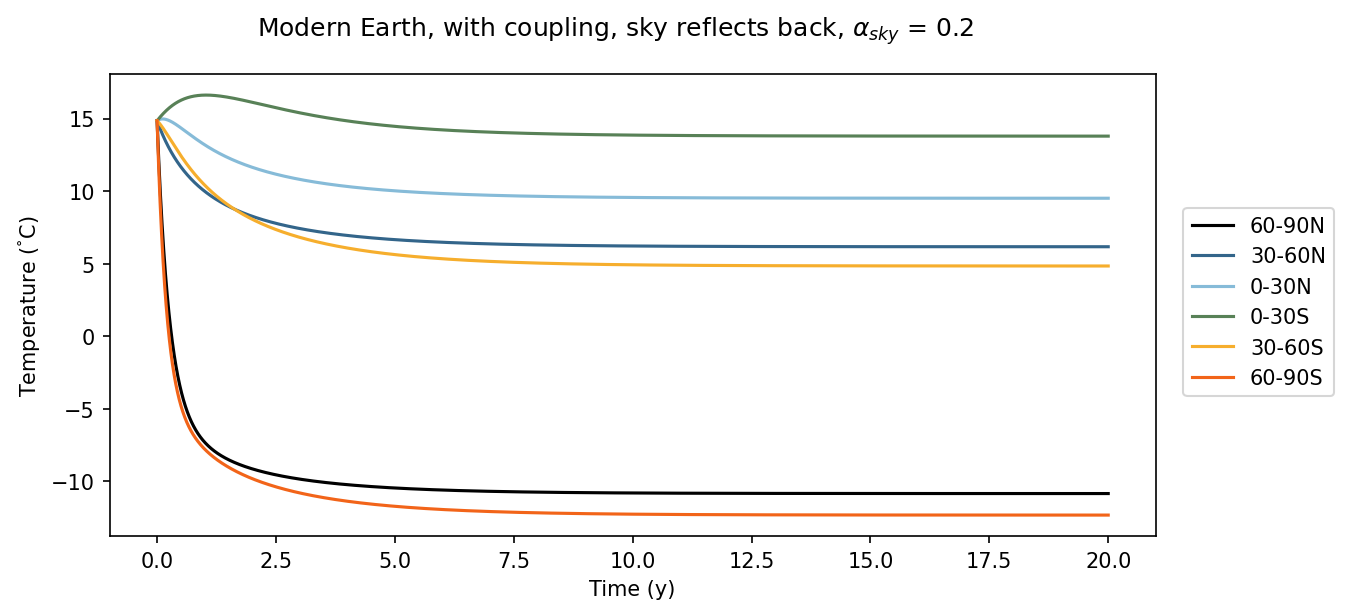
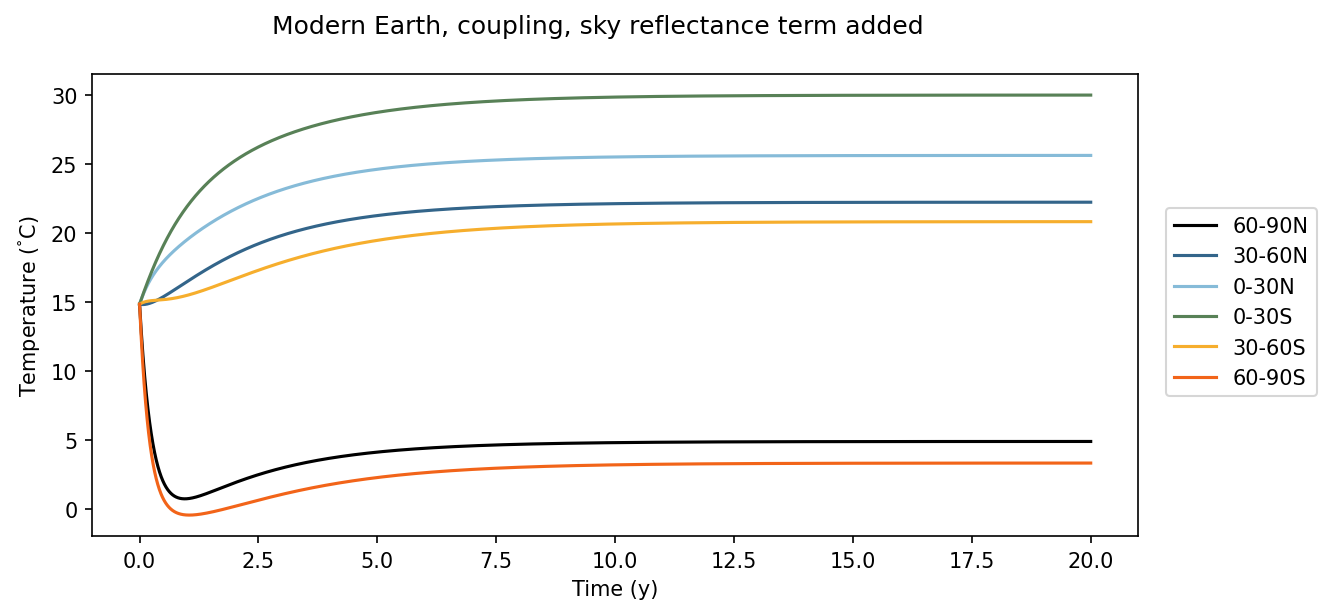
coded up volcano clouds and snowball, not working.

diff --git a/assignment_two/solvers/odes.py b/assignment_two/solvers/odes.py
@@ -1,16 +1,21 @@
-# from solvers.volcanoes import emissions
-# import numpy as np
+from solvers.volcanoes import volcanic_clouds
+from solvers.volcanoes import snowball_surface
 from data.constants import *
+# import numpy as np
 
 
 def dtemperature_dtime(time: float, temperatures: np.ndarray,
-                       volcano_model=None, compute_couplings=False, sky_reflects=False):
+                       volcano_model=None, volcano_onset = 10, volcano_duration = 2,
+                        compute_couplings=False, snowball_scenario = False):
     """
     inputs:
     t: scalar time, y'know?
-    temperature_array: zonally-averaged surface temperature (1 by 6)
-    volcano_models: reference model of volcanic forcing
+    temperatures: zonally-averaged surface temperature (1 by 6)
+    volcano_model: reference model of volcanic forcing
+    volcano_onset: start time for volcano (years)
+    volcano_duration: lenth of volcano effect (years)
     compute_couplings: choice to compute without inter-zonal heat transfer
+    snowball_scenario: choice to flip to version of model where T<0 = ice albedo
 
     returns:
     dtemperature_dtime: (1 by 6) vector of changes to temperature
@@ -48,29 +53,26 @@ def dtemperature_dtime(time: float, temperatures: np.ndarray,
     # scale couplings by zonally-averaged prefactors
     couplings = np.multiply(coupling_prefactors, couplings)
 
+
+    # # volcano-climate interaction by adding volcanic clouds to change albedo_sky
+    if volcano_model:
+        while (time >= (volcano_onset * 3.154e+7)) and (time <= ((volcano_onset + volcano_duration) * 3.154e+7)):
+            albedo_sky = volcanic_clouds(time, model=volcano_model)
+
+
+    # snowball-earth melting by changing surface albedo from ice to land/water
+    if snowball_scenario:
+        albedo_surface = snowball_surface(temperatures)
+
+
     # Update values for fluxes from new temperatures:
     # todo: time-dependent albedo_sky term will plug-in here:
     step1 = np.multiply(gamma.reshape(6), (1 - albedo_sky))
     step2 = np.multiply(step1, (1 - albedo_surface))
     flux_in = np.multiply(step2, S_0)
-    
-    # Case where the second term is altered to trap radiation reflected from surface
-    if sky_reflects:
-        step1 = np.multiply(b, temperatures ** 4)
-        flux_out = np.multiply(step1, (1 - albedo_sky)**2)
-    else: 
-        flux_out = (np.multiply(b, temperatures ** 4))*0.8
+    flux_out = (np.multiply(b, temperatures ** 4))*(1-albedo_sky) #added a term to reflect back to earth
 
     dtemperature = noncoupling_prefactors * (flux_in - flux_out) + couplings
-
-    # todo: volcano-climate addition
-    # if volcano_models:
-    #     emission_array = emissions([time], model=volcano_models)[0]
-    # else:
-    #     emission_array = 0
-
-    # add forcing fluxes to first slot: the atmosphere box
-    # dtemperature[0] += emission_array
 
     return dtemperature
 
@@ -79,8 +81,3 @@ def dtemperature_dtime(time: float, temperatures: np.ndarray,
 # time = 1.0
 # temperature0 = np.zeros((6,))
 # dtemperature_dtime(time, temperature0, compute_couplings=True)
-
-
-def albedo_sky_stepwise(time: float, t_onset=False):
-    a = ':)'
-    return a

diff --git a/assignment_two/solvers/volcanoes.py b/assignment_two/solvers/volcanoes.py
@@ -1,40 +1,44 @@
 import numpy as np
 import pandas as pd
+from data.constants import albedo_snowball, albedo_not_snowball
 
+# volcanic_clouds causes change to albedo_sky (increase) and adds trapping to flux_out
 
-# todo: model data stored in a csv
-# df = pd.read_csv("./data/model-data.csv")
-
-
-def emissions(yr, model):
+def volcanic_clouds(yr, model, onset = 10, duration = 2):
     """
-    Function defining fossil fuel emissions from various models and equations.
+    Function defining the changes produced by onset of volcanic activity
 
-    IPCC-A2 model from: http://www.grida.no/climate/ipcc/emission
-    CMIP5 model data from: https://esgf-node.llnl.gov/search/cmip5/
-    CMIP6 model data from: https://esgf-index1.ceda.ac.uk/search/cmip6/
-
-    model parameter is one of: "short_sine", "long_sine", "short_exp", "long_exp",
-        "IPCC-A2", "GFDL-ESM2G_esmrcp85", "CNRM-ESM2-1_esm-ssp585", "MPI-ESM1-2-LR_esm-ssp585", "UKESM1-0-LL_esm-ssp585"
+    model parameter is one of: "small", "medium", "large"
+    onset in years
+    duration in years
     """
     yr = np.asarray(yr)
-    if model == "short_sine": # short wavelength sine wave forcing
-        T = 0.1  
-        e = (20 / T) * (np.sin((2*np.pi*yr) / T))
-    elif model == "long_sine":
-        T = 100  
-        e = (20 / T) * (np.sin((2*np.pi*yr) / T)) # long wavelength sine wave forcing
-    elif model == "short_exp":
-        T = 0.1  
-        e = np.exp(-yr/2100) * (np.sin((2*np.pi*yr) / T))  # short wavelength exponential decay
-    elif model == "long_exp":
-        T = 100  # long wavelength
-        e = np.exp(-yr/2100) * (np.sin((2*np.pi*yr) / T))  # long wavelength exponential decay
-    else:
-        # get model data from pandas dataframe
-        t_yr = df[model + "_times"]
-        e_GtC_yr = df[model + "_emissions"]
-        # interpolate yr from model data
-        e = np.interp(yr, t_yr, e_GtC_yr)
+    if model == "small": # small amount of volcanoes, small increase in albedo
+        albedo_sky = np.array([0.2, 0.2, 0.2, 0.2, 0.2, 0.2])*1.5
 
-    return e
+    elif model == "medium":
+        albedo_sky = np.array([0.2, 0.2, 0.2, 0.2, 0.2, 0.2])*2
+        
+    elif model == "large":
+        albedo_sky = np.array([0.2, 0.2, 0.2, 0.2, 0.2, 0.2])*4
+
+    return albedo_sky
+
+def snowball_surface(temperatures: np.ndarray):
+    """
+
+    Function deciding if the surface is ice or not and defining a surface albedo 
+
+    inputs:
+    temperatures: zonally-averaged surface temperature (1 by 6)
+
+    returns:
+    albedo_surface: (1 by 6) vector of surface reflectance based off temperature
+    """
+    #loop through the 6 temperatures, if < 0 deg C, all ice, otherwise 70% water 30% land
+    temperatures = np.array([270, 270, 270, 280, 280, 280])
+    ice = (temperatures < 273.15)*albedo_snowball #  boolean of whether temps are < 0
+    not_ice = (temperatures > 273.15)*albedo_not_snowball
+    albedo_surface = ice + not_ice
+    
+    return albedo_surface

diff --git a/assignment_two/main.py b/assignment_two/main.py
@@ -2,22 +2,25 @@ import numpy as np
 from solvers.plotters import plot_integrator_results
 
 # model configuration
-title_string = r'Modern Earth, coupling, 20% surface radiation trapped' #, $\alpha _{sky}$ = 0.2'
-filename_string = "coupling_sky_traps_20_perc_15_deg"
-initial_temperatures = (15 + 273)  * np.ones((6,))  # avg temp today: 15degC
+title_string = r' Average/snowball earth, coupling'
+filename_string = "coupling_15_deg_snowball"
+initial_temperatures = (-200 + 273)  * np.ones((6,))  # avg temp today: 15degC
 coefficients = np.ones((6,))
-volcano_model = [None]  # can iterate over [None]
 solvers = ['LSODA']  # 'DOP853', cut-paste if desired
-compute_couplings = True
-sky_reflects = False
+compute_couplings = False
+snowball_scenario = False
+
+volcano_model = [None]  # can iterate over [None, 'small', 'medium', 'large']
+volcano_onset = 10 # in years after start
+volcano_duration =  2 #in years
 # todo: unequal zone selection
 
 def main():
     plot_integrator_results(title_string, filename_string,
                             args=(initial_temperatures, coefficients,
                                   compute_couplings,
-                                  volcano_model, solvers,
-                                  sky_reflects
+                                  volcano_model, volcano_onset, volcano_duration,
+                                   solvers,snowball_scenario
                                   )
                             )
     return

diff --git a/assignment_two/solvers/plotters.py b/assignment_two/solvers/plotters.py
@@ -16,7 +16,7 @@ def plot_integrator_results(title_string, filename_string, args: tuple):
     t_max = years * 3.154e+7  # seconds in a year (multiplied by years)
 
     max_step = 50000  # dial max_step down for stiff problems
-    initial_temperatures, coefficients, compute_couplings, volcano_model, solvers, sky_reflects = args
+    initial_temperatures, coefficients, compute_couplings, volcano_model, volcano_onset, volcano_duration, solvers, snowball_scenario = args
 
     y0_reshaped = initial_temperatures.reshape(6)
 
@@ -32,7 +32,8 @@ def plot_integrator_results(title_string, filename_string, args: tuple):
         t_start = time.time()
         sol = solve_ivp(fun=dtemperature_dtime, t_span=(t_min, t_max),
                         y0=y0_reshaped, method=solver, max_step=max_step,
-                        args=(volcano_model, compute_couplings)
+                        args=(volcano_model, volcano_onset, volcano_duration,
+                         compute_couplings, snowball_scenario)
                         )
         t_end = time.time()
         t = sol.t
@@ -61,7 +62,7 @@ def plot_integrator_results(title_string, filename_string, args: tuple):
    # plt.tight_layout()
 
     fig_filename = "plots/" + filename_string + ".png"
-    plt.savefig(fig_filename, bbox_inches='tight')
+    # plt.savefig(fig_filename, bbox_inches='tight')
     plt.show()
 
 

diff --git a/assignment_two/data/constants.py b/assignment_two/data/constants.py
@@ -15,12 +15,13 @@ c = np.array([790, 4187, 2060])  # specific heat capacity
 
 # calculate zonal averages
 zone_params = pd.read_csv('./data/equal_zones.csv')
-
 gamma = np.array(zone_params[["gamma"]])  # spatial radiation factors
 area = np.array(zone_params[["frac area"]] * A)
 land_types = np.array(zone_params[["land", "ocean", "ice"]])
 albedo_surface = np.sum((land_types * alpha), axis=1)  # surface albedos 
-albedo_sky = np.array([0.2, 0.2, 0.2, 0.2, 0.2, 0.2])
+albedo_snowball = np.ones(6)*alpha[2] #all zones ice
+albedo_not_snowball = np.ones(6)*((alpha[0]*0.3) + (alpha[1]*0.7)) #70perc water 30perc land
+albedo_sky = np.ones(6)*0.2
 densities = np.sum((land_types * rho), axis=1)  # densities
 specific_heats = np.sum((land_types * c), axis=1)  # specific heat capacities (c_k)
 thermals = np.sum((land_types * Z), axis=1)  # thermal scale depth
